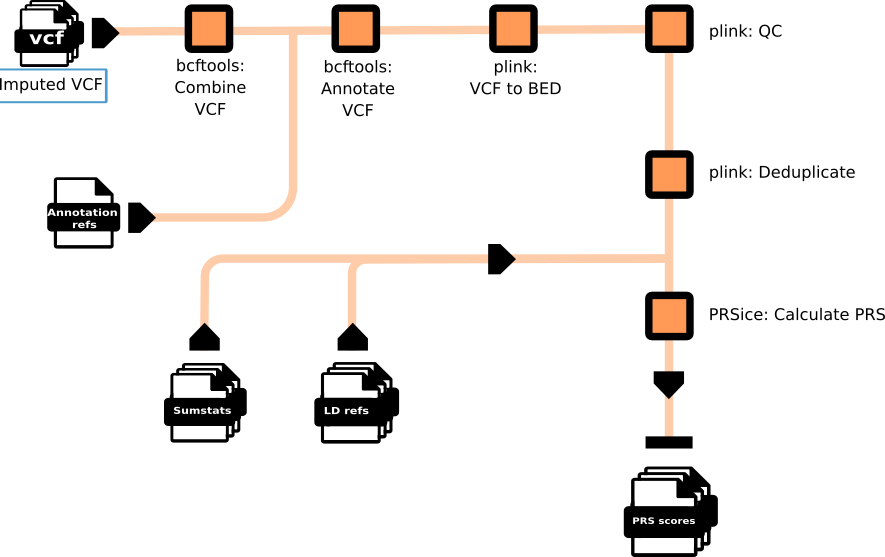
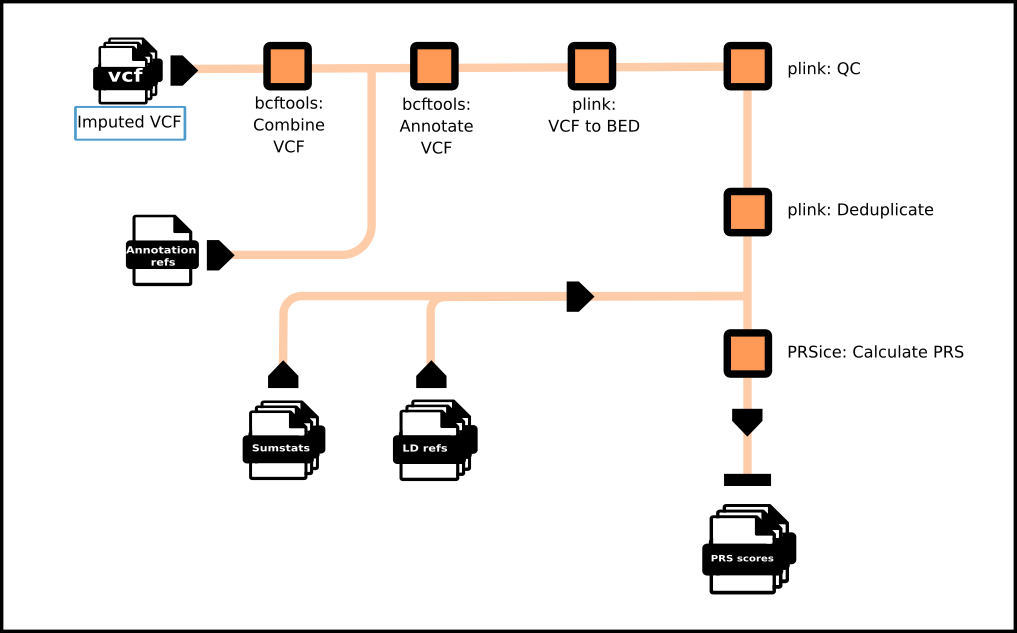
update: revise links and images

Changed region(s): [[0.0, 0.0, 1.0, 1.0]]

diff --git a/docs/imputation/lps_imputation.md b/docs/imputation/lps_imputation.md
@@ -4,8 +4,8 @@
     - GLIMPSE2 v2.0.0, commit: 8ce534f, release: 2023-06-29
 
 !!! input "Input data"
-    - [Samples list of batch][4]
-    - [Phasing reference][5]
+    - [Samples list of batch][5]
+    - [Phasing reference][4]
     - Imputation panel
     - Downsampled BAM
 
@@ -13,11 +13,12 @@
 
 ??? info "Low-pass imputation workflow"
     ![](../assets/img/glimpse-workflow.png)
+    The imputation reference panel (Ref VCF) was indexed using **GLIMPSE2** and subsequently processed through the *chunking* and *split_reference* steps to generate the appropriate binary input format. The prepared reference panel was then employed to impute genotype data from downsampled BAM files using **GLIMPSE2_phase** modules. Finally, imputed genomic chunks were merged via **GLIMPSE_ligate** to produce the final VCF outputs.
 
 ### Prepare imputation reference
 
 !!! code
-    Make GLIMPSE2 imputation reference data
+    Creating imputation reference by using [GLIMPSE2_chunk][6] and [GLIMPSE2_split_reference][7].
     ```bash linenums="1"
     --8<-- "imputation/lowpass_imputation/bin/gen_ref_batch.sh"
     ```
@@ -31,7 +32,7 @@
     imputation/lowpass_imputation/Bam2Vcf.sh
     --8<--
     ```
-    Imputation processing on autosomes and ligating using `GLIMPSE2` ([run_imputation_bam_list.sh][1])
+    Imputations were processed on autosomes and ligating using [GLIMPSE2_phase][8] and [GLIMPSE2_ligate][9] ([run_imputation_bam_list.sh][1])
 
 !!! output "Output data"
     - lpWGS VCF files
@@ -39,6 +40,10 @@
 
 [1]: https://github.com/KTest-VN/lps_paper/blob/main/imputation/lowpass_imputation/bin/run_imputation_bam_list.sh
 [2]: https://github.com/KTest-VN/lps_paper/blob/main/imputation/lowpass_imputation/bin/gen_ref_batch.sh
-[3]: https://github.com/KTest-VN/lps_paper/blob/main/imputation/lowpass_imputation/bin/buid_ref.sh
+[3]: https://github.com/KTest-VN/lps_paper/blob/main/imputation/lowpass_imputation/bin/build_ref.sh
 [4]: https://github.com/KTest-VN/lps_paper/tree/main/support_data/maps 
 [5]: https://github.com/KTest-VN/lps_paper/tree/main/support_data/sample_list
+[6]: https://odelaneau.github.io/GLIMPSE/docs/documentation/chunk/
+[7]: https://odelaneau.github.io/GLIMPSE/docs/documentation/split_reference/
+[8]: https://odelaneau.github.io/GLIMPSE/docs/documentation/phase/
+[9]: https://odelaneau.github.io/GLIMPSE/docs/documentation/ligate/

diff --git a/docs/imputation/array_imputation.md b/docs/imputation/array_imputation.md
@@ -13,11 +13,12 @@
 
 ??? info "Array imputation workflow"
     ![](../assets/img/pseudo-array-workflow.png)
+    The reference panel (VCF) was used directly as the phasing reference for pseudo-array genotype data (VCF) and was additionally indexed using **Minimac3** to produce the required m3vcf files for imputation. Phasing was performed prior to imputation, with intermediate results stored in BCF format. Imputation was then carried out using **Minimac4**, generating the final imputed VCF outputs.
 
 ### Prepare imputation reference
 
 !!! code
-    This script extracts a reference panel, phases pseudo SNP array data using Shapeit5, and prepares the reference for imputation by indexing it in Minimac3 format
+    This script extracts a reference panel, phases pseudo SNP array data using [Shapeit5][7], and prepares the reference for imputation by indexing it in [Minimac3][8] format.
 
     ```bash linenums="1"
     --8<--
@@ -29,7 +30,7 @@
 ### Imputation process 
 
 !!! code
-    Genotype imputation is performed using Minimac4. The phased BCF file is converted and indexed, imputed against a reference panel, and temporary files are removed upon completion.
+    Genotype imputation is performed using [Minimac4][6]. The phased BCF file is converted and indexed, imputed against a reference panel, and temporary files are removed upon completion.
     ```bash linenums="1"
     --8<--
     imputation/pseudo-array_imputation/impute_minimac4.sh
@@ -46,3 +47,6 @@
 [2]: https://github.com/KTest-VN/lps_paper/tree/main/support_data/sample_list
 [4]: https://github.com/KTest-VN/lps_paper/tree/main/imputation/pseudo-array_imputation/bin
 [5]: https://github.com/KTest-VN/lps_paper/tree/main/support_data/rename_chr.txt
+[6]: https://genome.sph.umich.edu/w/index.php?title=Minimac4_Documentation
+[7]: https://odelaneau.github.io/shapeit5/docs/documentation/phase_common/
+[8]: https://genome.sph.umich.edu/wiki/Minimac3_Usage

diff --git a/docs/evaluation/lps_performance.md b/docs/evaluation/lps_performance.md
@@ -1,11 +1,15 @@
 ## Evaluation methods
 ![evaluate methods](../assets/img/evaluate_methods.png)
 
-To assess imputation performance, two key metrics are used: {==Imputation Accuracy==} and {==Imputation Coverage==}. These metrics quantify the quality and completeness of imputed genetic variants, and are calculated per chromosome across all autosomes.
+To evaluate imputation performance, we employed two primary metrics: Imputation Accuracy and Imputation Coverage. 
+
+{==Imputation accuracy==} was quantified using the ^^SNP-wise Pearson correlation^^ ($r^2$) between imputed and true genotypes, whereas {==Imputation coverage==} was defined as the proportion of variants within each minor allele frequency (MAF) bin achieving $r^2\ge0.8$. 
+
+These metrics collectively assess both the reliability and completeness of imputed genetic data and were calculated on a per-chromosome basis across all autosomes. Our evaluation framework follows the methodology described in Nguyen et al., 2022[@nguyen2022comprehensive] 
 
 | Metric                  | Description                                     | Purpose                                                |
 |-------------------------|-------------------------------------------------|--------------------------------------------------------|
-| **Imputation Accuracy** | Mean $r^2$ of sites within a bin                 | Measures how well imputed values match true genotypes  |
+| **Imputation Accuracy** | Mean $r^2$ of sites within a MAF bin                 | Measures how well imputed values match true genotypes  |
 | **Imputation Coverage** | Proportion of variants with $r^2 \geq 0.8$ in a bin | Assesses the proportion of high-confidence imputations |
 
 ## Evaluation process

diff --git a/docs/evaluation/prs_processing.md b/docs/evaluation/prs_processing.md
@@ -3,8 +3,8 @@
 !!! abstract "Requirements"
     - Ubuntu 22.04 (8 CPUs, 32 GB)
     - bcftools (version==1.13)
-    - plink v1.90
-    - PRSice-2 v2.3.3
+    - [plink v1.90][4]
+    - [PRSice-2 v2.3.3][5]
 
 !!! input "Input data"
     - restructed lpWGS VCFs
@@ -16,6 +16,7 @@ The PRS processing scripts were developed with reference to the tutorial provide
 
 ??? info "PRS processing workflow"
     ![](../assets/img/PRS-workflow.png)
+    Imputed VCF files were first merged using bcftools combine and annotated with reference information using bcftools annotate. The annotated VCFs were then converted to PLINK binary format (BED) and processed for quality control (QC) and duplicate removal using PLINK. PRSice was then used to calculate polygenic risk scores, using GWAS summary statistics and linkage disequilibrium (LD) reference panels as inputs. The final output consisted of individual-level PRS scores.
 
 ## Correct sample name
 
@@ -86,3 +87,5 @@ Concatenate autosome VCF files have same prefix (Array name/ lowpass coverage).
 [1]: https://github.com/KTest-VN/lps_paper/blob/main/evaluation/prs_evaluation/LIST_NO_DUPLICATE.R
 [2]: https://github.com/KTest-VN/lps_paper/tree/main/evaluation/downstream/data/raw_prs_scores
 [3]: https://github.com/KTest-VN/lps_paper/tree/main/evaluation/downstream/data/process_prs_scores
+[4]: https://www.cog-genomics.org/plink/1.9/
+[5]: https://choishingwan.github.io/PRSice/step_by_step/
